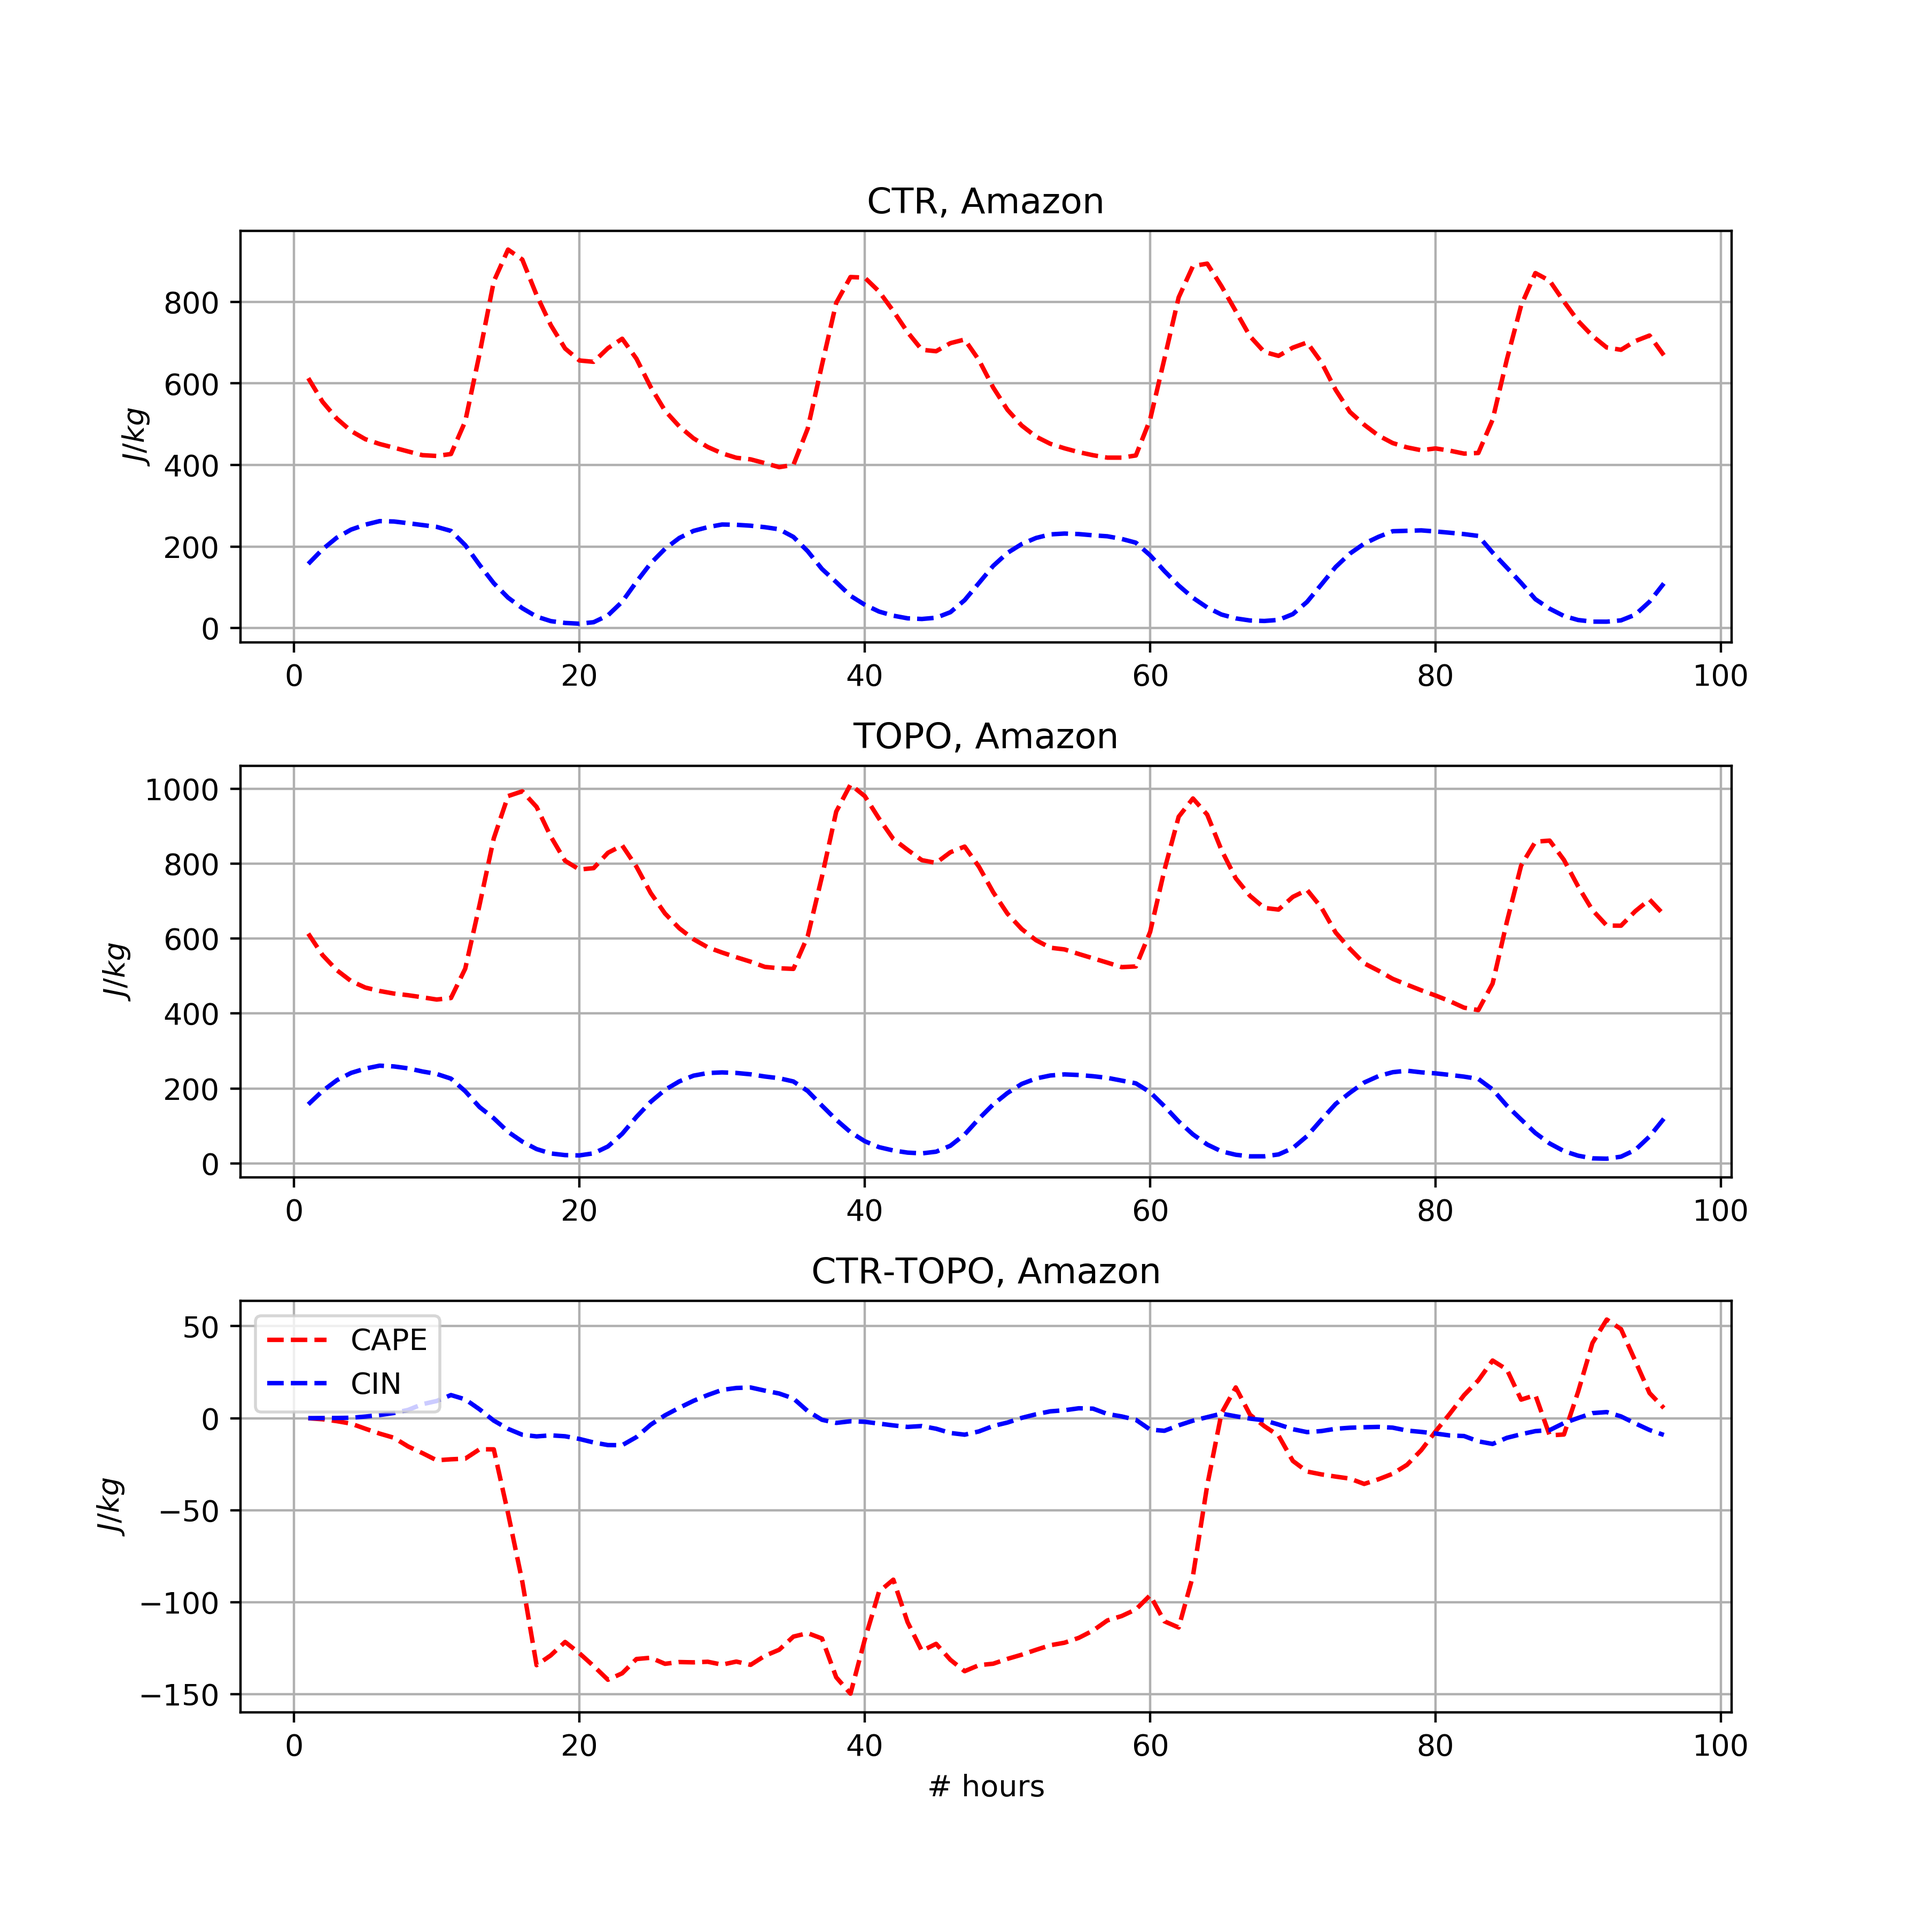
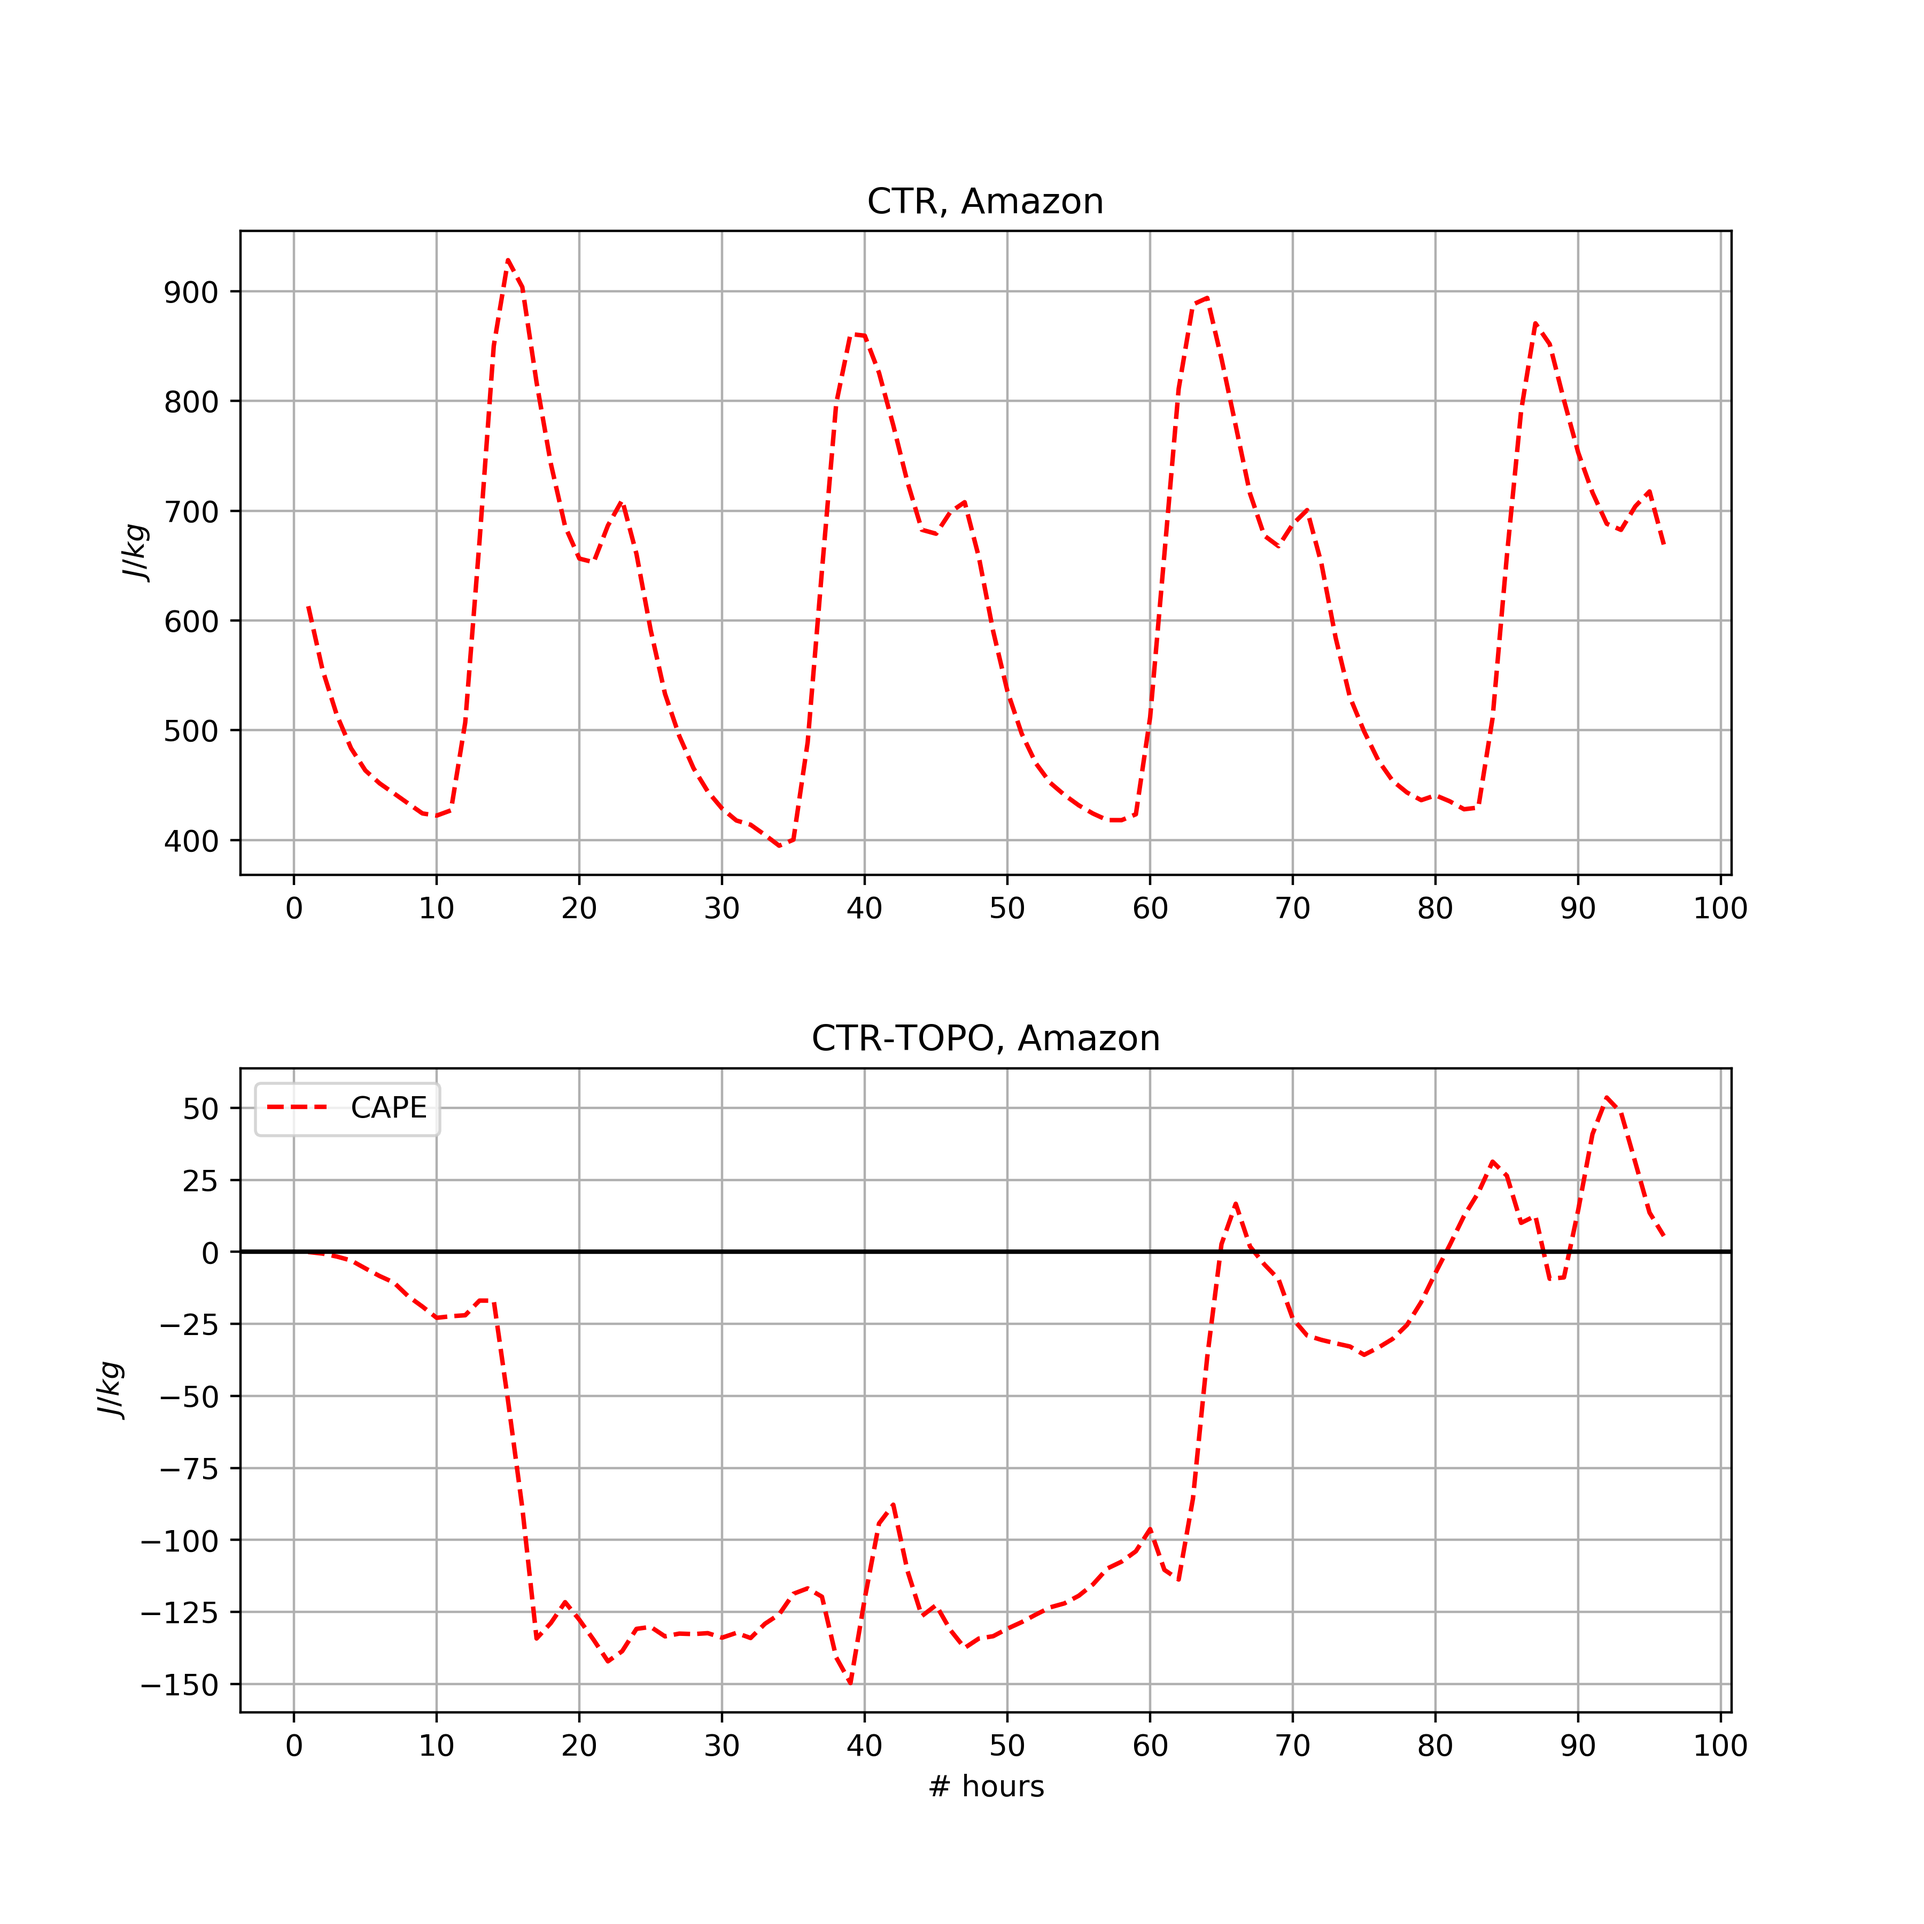
figure refinement

diff --git a/sim2_TOPO_vs_CTR_ENS_HCforcing_h2_Inteference_Modi_test/Modi_plus_macro_and_micro/Code/Amazon_mean_PRECT_time_series.py b/sim2_TOPO_vs_CTR_ENS_HCforcing_h2_Inteference_Modi_test/Modi_plus_macro_and_micro/Code/Amazon_mean_PRECT_time_series.py
@@ -19,6 +19,7 @@ data_vars = np.zeros((len(file_names),96)) # 6 vars x 96 hours
 
 cases = ['CTR', 'TOPO', 'CTR_TOPO']
 
+i_count = 0
 for i_case in range(len(cases)):
     for i in range(len(file_names)):
         ds = xr.open_dataset(data_path+file_names[i]+'.nc', decode_times=False)
@@ -28,19 +29,23 @@ for i_case in range(len(cases)):
 
     # Plot the time series
     #fig = plt.figure()
-    ax1 = plt.subplot(3,1,i_case+1)
-    x = np.arange(1,97,1)
-    for i in range(len(data_vars[:,0])):
-        plt.plot(x, data_vars[i,:], label = file_names[i])
-    if i_case <= 1:
-        plt.ylim([2.0, 9.5])
-    else:
-        plt.ylim([-2.0, 2.0])
-    plt.xlabel('time, hr')
-    plt.ylabel('PRECT, mm/day')
-    plt.title(cases[i_case]+', Amazon avg')
-    plt.grid(True)
+    if i_case == 0 or i_case == 2:
+        ax1 = plt.subplot(2,1,i_count+1)
+        x = np.arange(1,97,1)
+        for i in range(len(data_vars[:,0])):
+            plt.plot(x, data_vars[i,:], label = file_names[i])
+        if i_case <= 1:
+            plt.ylim([2.0, 9.5])
+        else:
+            plt.ylim([-2.0, 2.0])
+        plt.xticks(np.arange(0,101,10))
+        plt.xlabel('time, hr')
+        plt.ylabel('PRECT, mm/day')
+        plt.title(cases[i_case]+', Amazon avg')
+        plt.grid(True)
+        i_count += 1
 
+plt.axhline(y=0, linewidth=1.5, color='k')
 #plt.legend(loc = 'best')
 plt.legend(bbox_to_anchor=(1.05, 1), loc='upper left', borderaxespad=0.)
 plt.tight_layout()

diff --git a/sim2_TOPO_vs_CTR_ENS_HCforcing_h2_Inteference_Modi_test/Modi_plus_macro_and_micro/Code/CAPE_CIN/13_b_after_wrf_cape_3d_using_lowest_level_CAPE_CIN_CTR_TOPO.py b/sim2_TOPO_vs_CTR_ENS_HCforcing_h2_Inteference_Modi_test/Modi_plus_macro_and_micro/Code/CAPE_CIN/13_b_after_wrf_cape_3d_using_lowest_level_CAPE_CIN_CTR_TOPO.py
@@ -30,19 +30,24 @@ print(Vars)
 title_str = ['CTR, Amazon','TOPO, Amazon','CTR-TOPO, Amazon']
 fmt_str = ['--r','--b']
 
-fig, axes = plt.subplots(3, 1, figsize=(9, 9))
+#fig, axes = plt.subplots(3, 1, figsize=(9, 9))
+fig, axes = plt.subplots(2, 1, figsize=(9, 9)) # only plot CTR and CTR-TOPO
 
+i_count = 0
 for i_fig in range(3):
-    for i_var in range(2):
-        axes[i_fig].plot(np.arange(96)+1, Vars[i_var,i_fig,:],
-                            fmt_str[i_var],label=var_str[i_var])
-    axes[i_fig].set_title(title_str[i_fig])
-    axes[i_fig].set_ylabel('$ J/kg $')
-    axes[i_fig].grid(True)
+    if i_fig == 0 or i_fig == 2:
+        for i_var in range(1): # only plot CAPE, leave CIN aside for now.
+            axes[i_count].plot(np.arange(96)+1, Vars[i_var,i_fig,:],
+                                fmt_str[i_var],label=var_str[i_var])
+        axes[i_count].set_title(title_str[i_fig])
+        axes[i_count].set_ylabel('$ J/kg $')
+        axes[i_count].grid(True)
+        axes[i_count].set_xticks(np.arange(0,101,10))
+        i_count += 1
 
-axes[2].legend(loc='upper left')
-axes[2].set_xlabel('# hours')
-
+axes[1].axhline(y=0,linewidth=1.5, color='k')
+axes[1].legend(loc='upper left')
+axes[1].set_xlabel('# hours')
 
 plt.subplots_adjust(hspace=.3)
 #plt.show()
